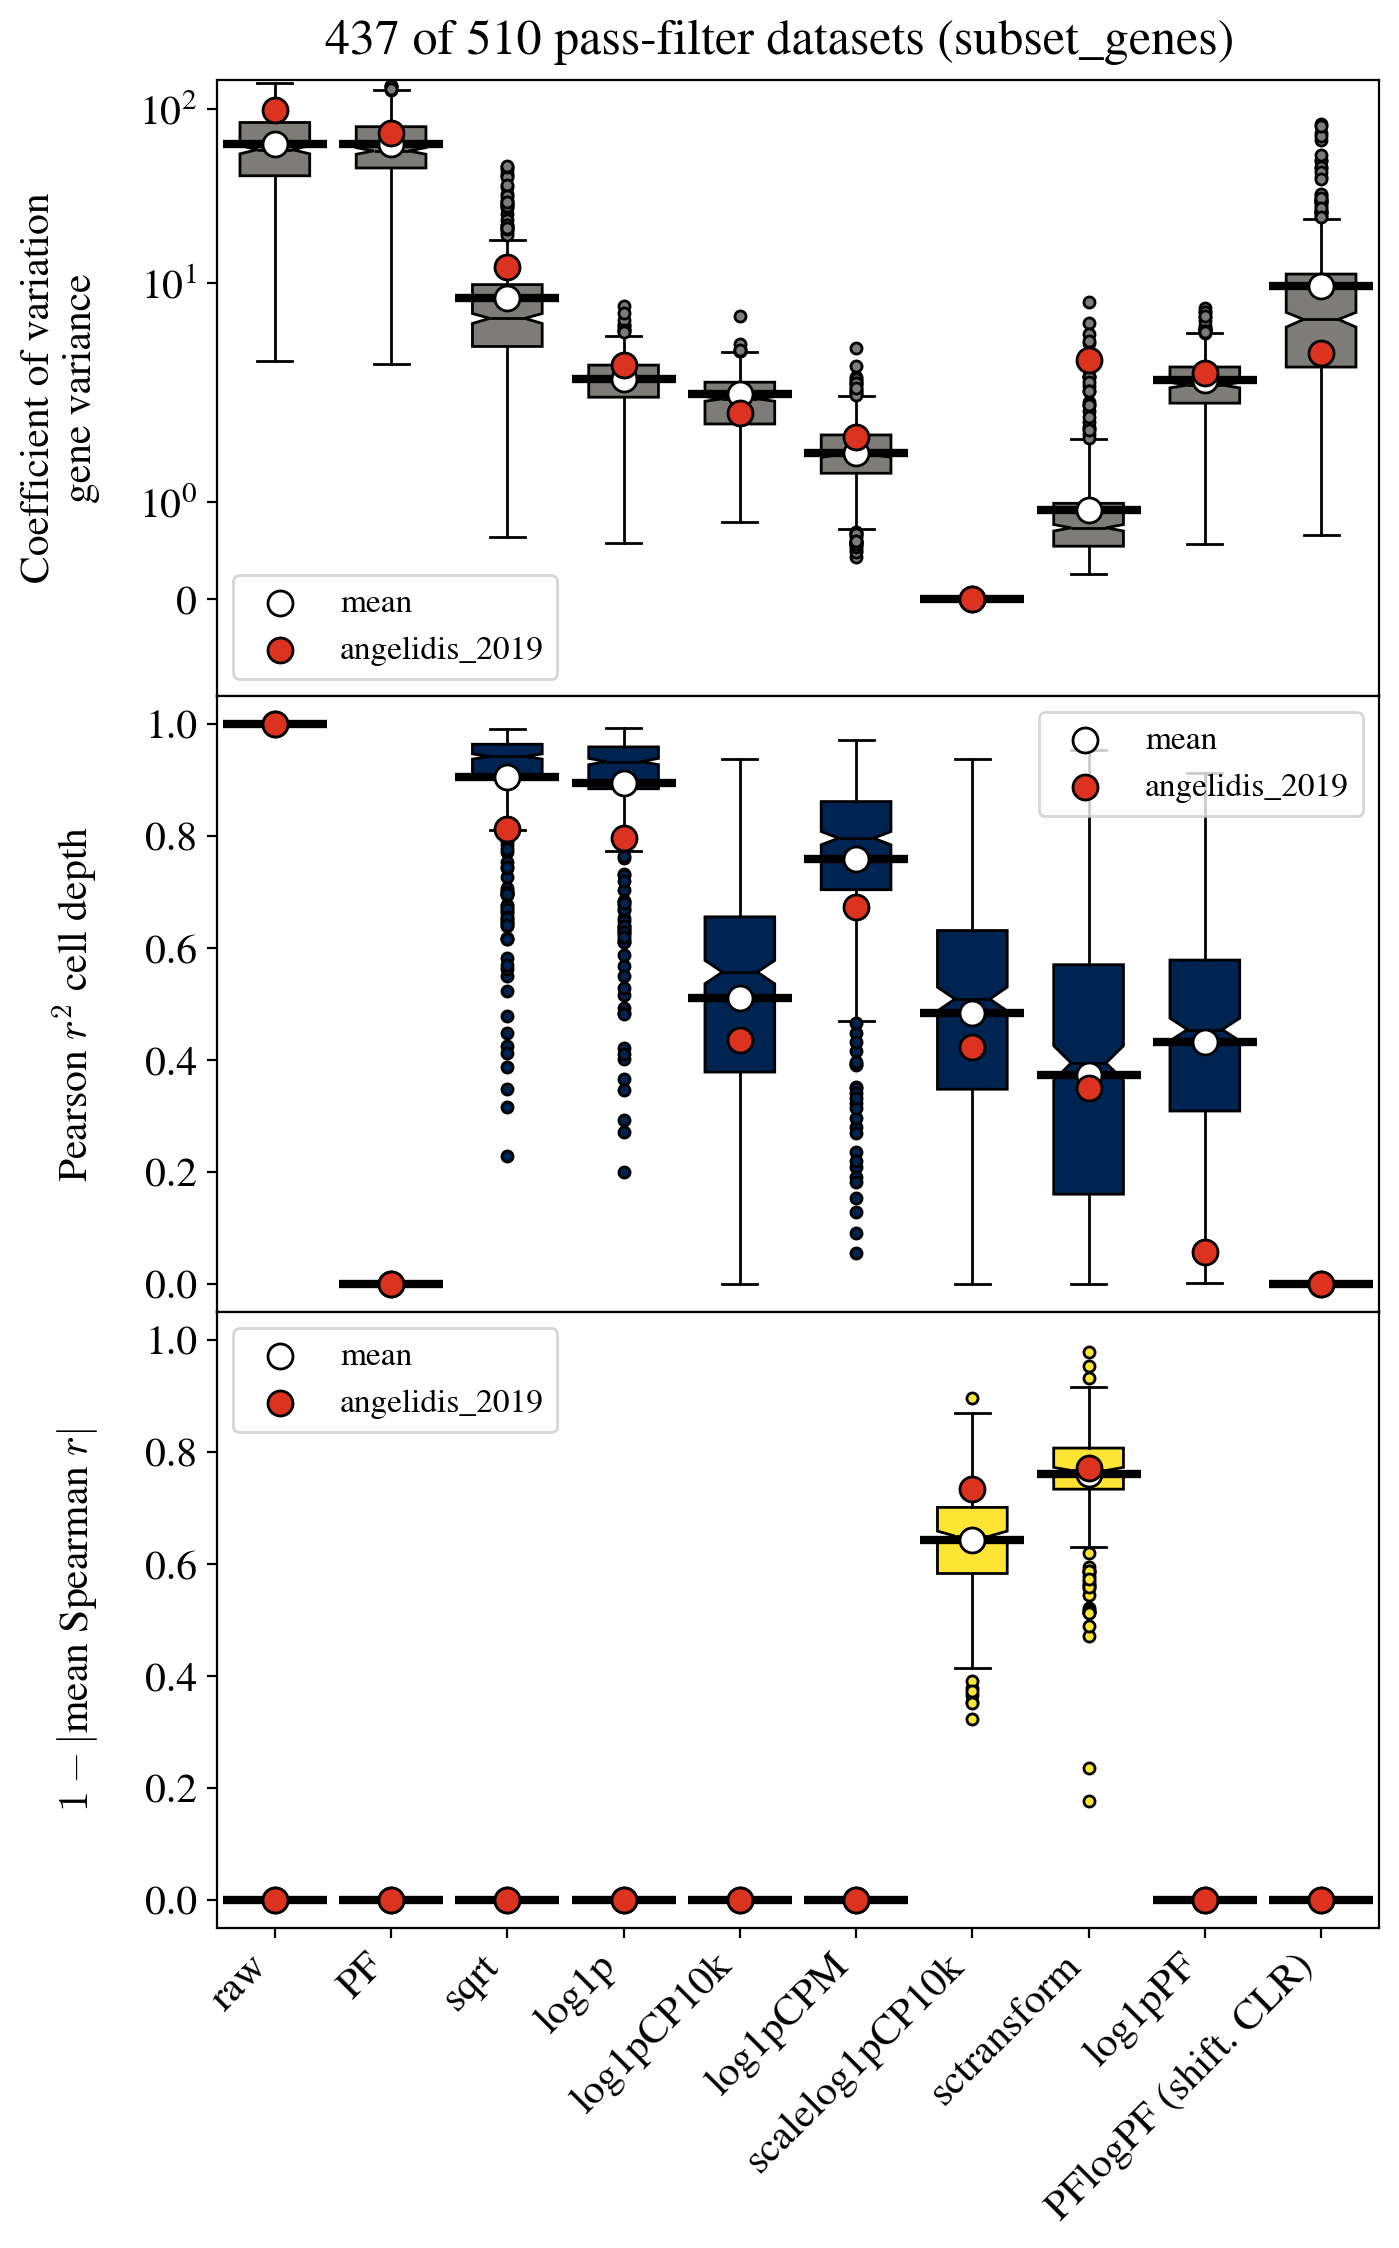
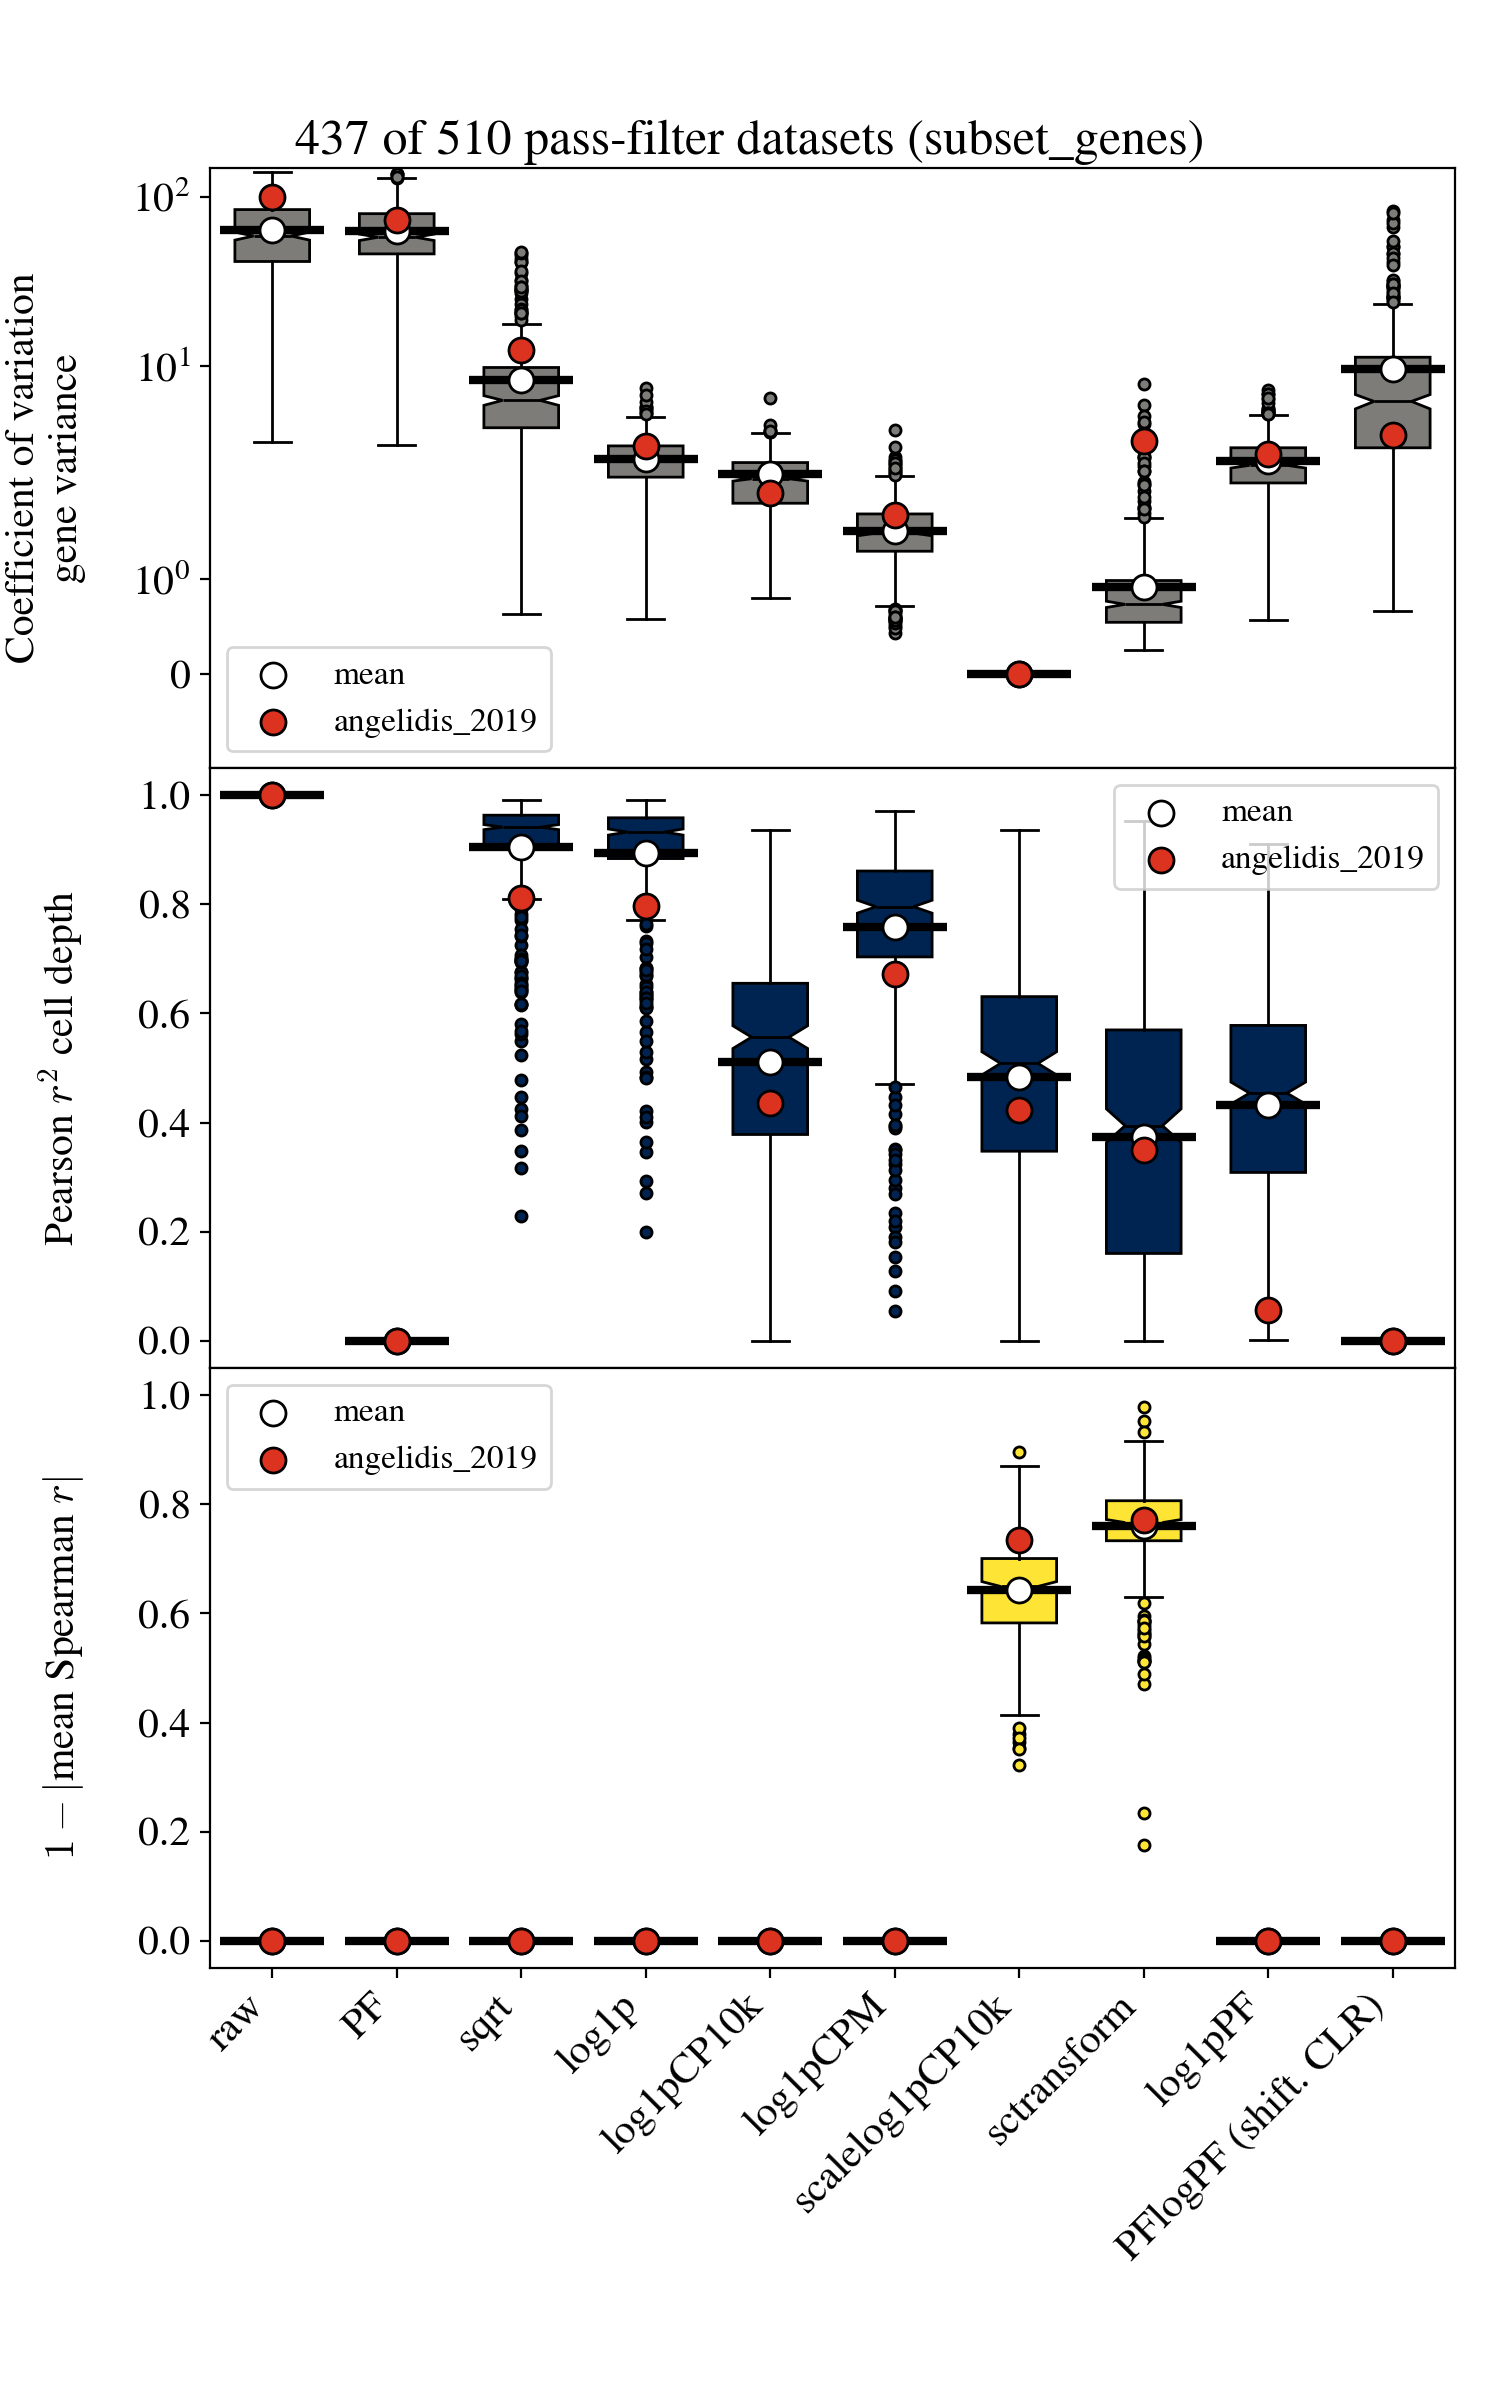
celltype_bar + summary: identical 540x864 pt page size for side-by-side
Drop bbox_inches='tight' (which trimmed each figure differently based on
label extents) and use explicit subplots_adjust margins so both PDFs are
exactly 7.5x12 in = 540x864 pt. Required so the two figures occupy equal
space in a side-by-side LaTeX layout.

diff --git a/scripts/plot_celltype_bar.py b/scripts/plot_celltype_bar.py
@@ -58,9 +58,11 @@ def main(metrics_json, out_prefix):
     x = np.arange(len(methods_present))
 
     fig, axs = plt.subplots(nrows=3, figsize=(7.5, 12))
-    fig.subplots_adjust(hspace=0)
-    title = ct.replace("_", " ")
-    fig.suptitle(f"{ds}: {ct}", y=0.905)
+    # Fixed absolute margins so the final canvas is exactly 7.5x12 in and
+    # matches plot_summary.py's geometry pixel-for-pixel (needed for
+    # side-by-side LaTeX placement).
+    fig.subplots_adjust(left=0.14, right=0.97, top=0.93, bottom=0.18, hspace=0)
+    fig.suptitle(f"{ds}: {ct}", y=0.95)
 
     panels = [
         ("pc1",      pc1, "1 - Fraction of max entropy on PC1 loadings"),
@@ -95,8 +97,10 @@ def main(metrics_json, out_prefix):
     axs[2].set_ylim(0, 1.05)
 
     os.makedirs(os.path.dirname(out_prefix) or ".", exist_ok=True)
-    fig.savefig(f"{out_prefix}.pdf", facecolor="white", bbox_inches="tight", dpi=300)
-    fig.savefig(f"{out_prefix}.png", facecolor="white", bbox_inches="tight", dpi=200)
+    # No bbox_inches="tight" — keep the full 7.5x12 in canvas so the PDF
+    # matches summary_subset_genes.pdf in absolute dimensions.
+    fig.savefig(f"{out_prefix}.pdf", facecolor="white", dpi=300)
+    fig.savefig(f"{out_prefix}.png", facecolor="white", dpi=200)
     print(f"wrote {out_prefix}.pdf + .png")
 
 

diff --git a/scripts/plot_summary.py b/scripts/plot_summary.py
@@ -99,10 +99,13 @@ def main(data_root, out_prefix, reference_ds="angelidis_2019"):
     df_pass["mono_metric"] = 1 - df_pass["r_mono"].abs()
 
     fig, axs = plt.subplots(figsize=(7.5, 12), nrows=3)
-    fig.subplots_adjust(hspace=0)
+    # Identical absolute margins to plot_celltype_bar.py — both PDFs come
+    # out exactly 7.5x12 in (540x864 pt) so they sit cleanly side-by-side
+    # in the manuscript LaTeX figure.
+    fig.subplots_adjust(left=0.14, right=0.97, top=0.93, bottom=0.18, hspace=0)
     fig.suptitle(
         f"{n_pass:,} of {n_total:,} pass-filter datasets (subset_genes)",
-        y=0.905,
+        y=0.95,
     )
 
     panels = [
@@ -165,8 +168,9 @@ def main(data_root, out_prefix, reference_ds="angelidis_2019"):
 
     out_dir = os.path.dirname(out_prefix) or "."
     os.makedirs(out_dir, exist_ok=True)
-    fig.savefig(f"{out_prefix}.pdf", facecolor="white", bbox_inches="tight", dpi=300)
-    fig.savefig(f"{out_prefix}.png", facecolor="white", bbox_inches="tight", dpi=200)
+    # No bbox_inches="tight" — keep full 7.5x12 in canvas for LaTeX layout.
+    fig.savefig(f"{out_prefix}.pdf", facecolor="white", dpi=300)
+    fig.savefig(f"{out_prefix}.png", facecolor="white", dpi=200)
     print(f"wrote {out_prefix}.pdf + .png")
 
 